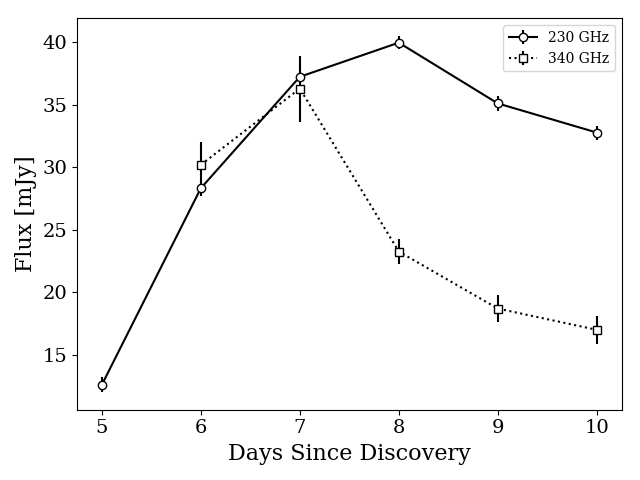
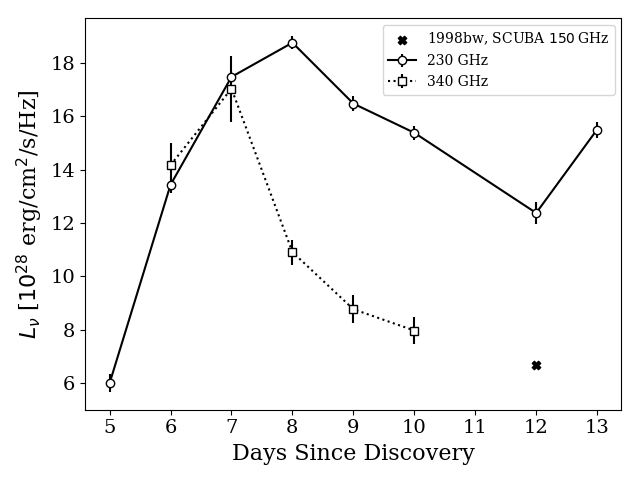
update

diff --git a/paper_plots/plot_spec.py b/paper_plots/plot_spec.py
@@ -8,6 +8,7 @@ rc("font", family="serif")
 import matplotlib.pyplot as plt
 import numpy as np
 from astropy.table import Table
+from astropy.cosmology import Planck15
 
 def spec_sequence(days, freq, flux, flux_err, lims):
     fig,axarr = plt.subplots(len(days), 1, figsize=(4,10))
@@ -44,6 +45,10 @@ def spec_sequence(days, freq, flux, flux_err, lims):
 
 
 def light_curve(t, freq, flux, flux_err):
+    conv = 1e-3 * 10**(-23)
+    d = Planck15.luminosity_distance(z=0.014).cgs.value
+    lum = flux * conv * 4 * np.pi * d**2
+    lum_err = flux_err * conv * 4 * np.pi * d**2
     freq_bins = [230, 340]
     marker_type = ['o', 's']
     line_style = ['-', ':']
@@ -55,23 +60,26 @@ def light_curve(t, freq, flux, flux_err):
         select,ind = np.unique(t[choose], return_index=True)
 
         plt.errorbar(
-                t[choose][ind], flux[choose][ind], yerr=flux_err[choose][ind],
+                t[choose][ind], lum[choose][ind] / 1e28, 
+                yerr=lum_err[choose][ind] / 1e28,
                 mfc='white', mec='black', fmt='.', marker=marker_type[ii], 
                 linestyle=line_style[ii], label="%s GHz" %center_freq, c='k')
-        #plt.plot(
-        #        t[choose][ind], flux[choose][ind], color='k', lw=1.0)
+
+    # put the 1998bw point on there
+    plt.scatter(
+            12, 6.7e28/1e28, marker='X', label="1998bw, SCUBA $150\,$GHz", c='k')
 
     # make it pretty
     plt.xlabel("Days Since Discovery", fontsize=16)
-    plt.ylabel("Flux [mJy]", fontsize=16)
+    plt.ylabel("$L_{\\nu}$ [$10^{28}$ erg/cm$^{2}$/s/Hz]", fontsize=16)
     plt.xticks(fontsize=14)
     plt.yticks(fontsize=14)
     
     plt.legend()
     plt.tight_layout()
 
-    plt.show()
-    #plt.savefig("light_curve.png")
+    #plt.show()
+    plt.savefig("light_curve.png")
 
 
 def plot_spectral_index(d, f, lc, lc_err, is_lim, ind_1, ind_2, mtype, lstyle):
@@ -186,6 +194,6 @@ if __name__=="__main__":
     # cols = ['red', 'orange', 'yellow', 'green', 'blue', 'purple', 'black']
     # cols = ['#f2f0f7', '#dadaeb', '#bcbddc', '#9e9ac8', '#807dba', '#6a51a3', '#4a1486']
     #spec_sequence(day_bins, freq, flux, flux_err, lims)
-    #light_curve(t, freq, flux, flux_err)
+    light_curve(t, freq, flux, flux_err)
 
-    spectral_index(t, freq, flux, flux_err, lims)
+    #spectral_index(t, freq, flux, flux_err, lims)
